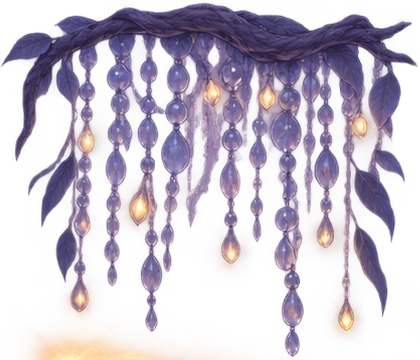
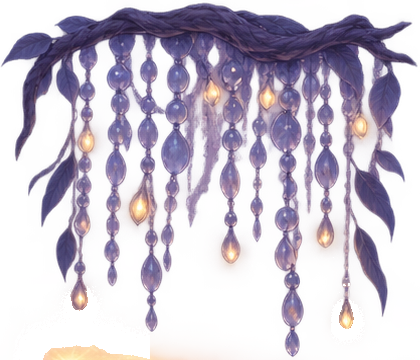
Breakable affordances, spread-through technique, surge spiral
- Breakables announce themselves: floating 'loose — tap SPACE' hint ON the
  structure for the first two encounters; static brittle pieces shimmer at
  rest; tremble/creak/dust carry the language after that
- Third curtain technique: a SPREAD flock slips THROUGH brittle curtains —
  a shortcut paid in blown-wide edge birds (capped) instead of a bounce;
  curtains now answer surge-drill, gather-ram, or spread-slip
- SURGE SPIRAL: while the pulse lives the flock corkscrews around its
  flight axis (travelling helix) — surging reads as the murmuration
  drilling forward like a spear
- curtain_beaded scrubbed of baked god-ray contamination; scattered-count
  HUD line repositioned below the bird counter

Changed region(s): [[0.0619, 0.9167, 0.3714, 1.0], [0.7738, 0.825, 0.8667, 0.9472], [0.1548, 0.7944, 0.2167, 0.8861]]

diff --git a/src/scenes/DayScene.ts b/src/scenes/DayScene.ts
@@ -302,6 +302,12 @@ export class DayScene extends Phaser.Scene {
         })
       }
     }
+    // brittle pieces shimmer faintly at rest — the "this one is different" tell
+    for (const [f, sprite] of this.featureSprites) {
+      if (f.brittle && !f.motion) {
+        this.tweens.add({ targets: sprite, alpha: (f.alpha ?? 1) * 0.82, duration: 1300 + Math.random() * 500, yoyo: true, repeat: -1, ease: 'Sine.easeInOut' })
+      }
+    }
     // moving obstacles: art and colliders travel together
     this.movers = []
     for (const [f, sprite] of this.featureSprites) {
@@ -842,6 +848,7 @@ export class DayScene extends Phaser.Scene {
     this.processFlung(time)
     this.processGrazes(time)
     this.processBrittle(dt, time)
+    this.updateBrittleHints()
     this.updateOpeningZones()
     this.cullStragglers(dt)
     const spreadAmt = Math.max(-this.flock.form, 0)
@@ -1001,6 +1008,33 @@ export class DayScene extends Phaser.Scene {
   }
 
   /** Rhythmic obstacle motion: readable, slow, colliders move with the art. */
+  /** First two brittle encounters get a floating hint ON the structure —
+   * after that the visual language (shimmer, sway, tremble) carries alone. */
+  private brittleHints = 0
+  private hintedFeatures = new Set<PieceFeature>()
+  private updateBrittleHints(): void {
+    if (this.brittleHints >= 2) return
+    for (const [f, sprite] of this.featureSprites) {
+      if (!f.brittle || this.hintedFeatures.has(f)) continue
+      const anyIntact = [...this.obstacleFeature.entries()].some(([o, ft]) => ft === f && !o.broken)
+      if (!anyIntact) continue
+      if (Math.abs(f.x - this.flock.centerX) > 520) continue
+      this.hintedFeatures.add(f)
+      this.brittleHints++
+      const label = this.add
+        .text(sprite.x, sprite.y - sprite.displayHeight / 2 - 26, 'loose — tap SPACE', {
+          fontFamily: 'Georgia, serif',
+          fontSize: '17px',
+          color: '#ffe2b8',
+        } as Phaser.Types.GameObjects.Text.TextStyle)
+        .setOrigin(0.5)
+        .setDepth(7)
+        .setAlpha(0)
+      label.setShadow(0, 1, '#2a2036', 4)
+      this.tweens.add({ targets: label, alpha: 0.95, duration: 400, yoyo: true, hold: 2400, onComplete: () => label.destroy() })
+    }
+  }
+
   /** Tremble amplitude (0..1) for a brittle feature under charge. */
   private featureTremble(f: PieceFeature): number {
     let best = 0
@@ -1394,7 +1428,18 @@ export class DayScene extends Phaser.Scene {
       this.lastHit.set(bird, time)
       this.lossTimes = this.lossTimes.filter((t) => time - t < 0.7)
       const capped = this.lossTimes.length >= 5
-      if (!capped && this.flock.form <= 0.1 && Math.random() < 0.12) {
+      if (this.flock.form < -0.3) {
+        // third technique: a SPREAD flock slips THROUGH the curtain — a
+        // shortcut paid in blown-wide edges instead of a bounce
+        this.flingTimes = this.flingTimes.filter((t) => time - t < 0.7)
+        if (this.flingTimes.length < 3 && Math.random() < 0.4) {
+          this.flingTimes.push(time)
+          this.featherPuff(bird.x, bird.y, 2, 60, -20)
+          if (!this.scatter.spawn(bird.x, bird.y, 1, -0.4)) this.stats.lost++
+          this.flock.removeBird(bird)
+          this.lastHit.delete(bird)
+        }
+      } else if (!capped && this.flock.form <= 0.1 && Math.random() < 0.12) {
         this.lossTimes.push(time)
         this.stats.collisionEvents++
         this.audio.collisionThump()

diff --git a/src/flock.ts b/src/flock.ts
@@ -539,6 +539,17 @@ export class Flock {
       // danger heals in clean air (slower than it accrues, so it "remembers")
       b.danger = Math.max(0, b.danger - dt * 0.5)
 
+      // SURGE SPIRAL: while the pulse lives, the flock corkscrews around its
+      // flight axis — a travelling helix (phase = position along the heading),
+      // so a surge reads as the murmuration drilling forward like a spear
+      if (this.pulse > 0.12) {
+        const proj = (b.x - this.centerX) * hx + (b.y - this.centerY) * hy
+        const helix = Math.sin(this.time * 11 + proj * 0.025 + b.flapPhase * 0.6)
+        const amp = 640 * this.pulse
+        ax += -hy * helix * amp
+        ay += hx * helix * amp
+      }
+
       // --- integrate with capped accel (this is the inertia)
       const maxA = TUNING.maxAccel * b.agility * (1 + gather * 0.22 + this.pulse * 0.4)
       const am = Math.hypot(ax, ay)
